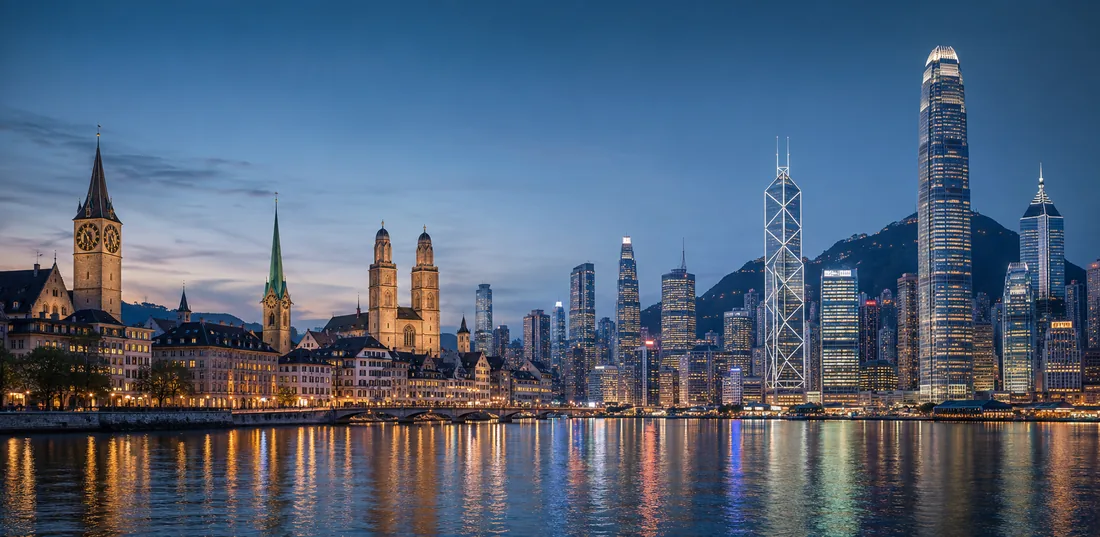
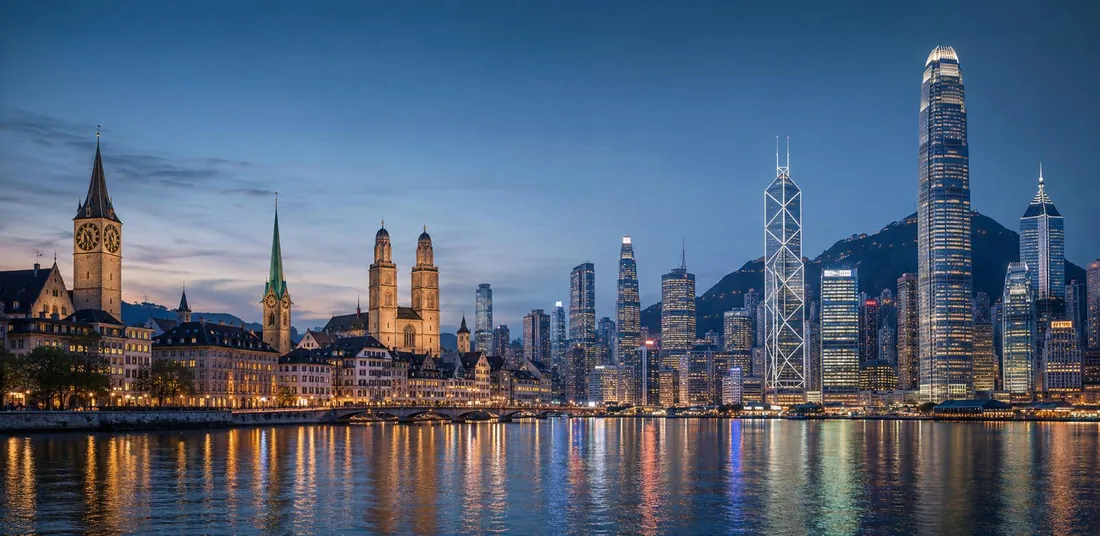
version 2 with larger hero image

diff --git a/de/index.html b/de/index.html
@@ -81,8 +81,8 @@
 <div class="hero">
 <picture>
 <source media="(max-width:700px)" srcset="/img/bfch-hero-mobile.webp 900w" type="image/webp"/>
-<source sizes="100vw" srcset="/img/bfch-hero-800.webp 800w, /img/bfch-hero-1100.webp 1100w" type="image/webp"/>
-<img alt="Zurich's old town and the Hong Kong skyline merged into a single waterfront: St. Peter's clock tower, the Fraumunster spire and the Grossmunster twin towers on the left, the Bank of China Tower and the IFC tower on the right." decoding="async" fetchpriority="high" height="876" src="/img/bfch-hero-1100.jpg" width="1795"/>
+<source sizes="100vw" srcset="/img/bfch-hero-800.webp 800w, /img/bfch-hero-1100.webp 1100w, /img/bfch-hero-1400.webp 1400w, /img/bfch-hero-1600.webp 1600w" type="image/webp"/>
+<img alt="Zurich's old town and the Hong Kong skyline merged into a single waterfront: St. Peter's clock tower, the Fraumunster spire and the Grossmunster twin towers on the left, the Bank of China Tower and the IFC tower on the right." decoding="async" fetchpriority="high" height="780" src="/img/bfch-hero-1400.jpg" width="1600"/>
 </picture>
 <div class="cap">
 <div>

diff --git a/de/kontakt-recht/index.html b/de/kontakt-recht/index.html
@@ -43,8 +43,8 @@
 <div class="hero">
 <picture>
 <source media="(max-width:700px)" srcset="/img/bfch-hero-mobile.webp 900w" type="image/webp"/>
-<source sizes="100vw" srcset="/img/bfch-hero-800.webp 800w, /img/bfch-hero-1100.webp 1100w" type="image/webp"/>
-<img alt="Zurich's old town and the Hong Kong skyline merged into a single waterfront: St. Peter's clock tower, the Fraumunster spire and the Grossmunster twin towers on the left, the Bank of China Tower and the IFC tower on the right." decoding="async" fetchpriority="high" height="876" src="/img/bfch-hero-1100.jpg" width="1795"/>
+<source sizes="100vw" srcset="/img/bfch-hero-800.webp 800w, /img/bfch-hero-1100.webp 1100w, /img/bfch-hero-1400.webp 1400w, /img/bfch-hero-1600.webp 1600w" type="image/webp"/>
+<img alt="Zurich's old town and the Hong Kong skyline merged into a single waterfront: St. Peter's clock tower, the Fraumunster spire and the Grossmunster twin towers on the left, the Bank of China Tower and the IFC tower on the right." decoding="async" fetchpriority="high" height="780" src="/img/bfch-hero-1400.jpg" width="1600"/>
 </picture>
 <div class="cap">
 <div>

diff --git a/de/wie-wir-arbeiten/index.html b/de/wie-wir-arbeiten/index.html
@@ -43,8 +43,8 @@
 <div class="hero">
 <picture>
 <source media="(max-width:700px)" srcset="/img/bfch-hero-mobile.webp 900w" type="image/webp"/>
-<source sizes="100vw" srcset="/img/bfch-hero-800.webp 800w, /img/bfch-hero-1100.webp 1100w" type="image/webp"/>
-<img alt="Zurich's old town and the Hong Kong skyline merged into a single waterfront: St. Peter's clock tower, the Fraumunster spire and the Grossmunster twin towers on the left, the Bank of China Tower and the IFC tower on the right." decoding="async" fetchpriority="high" height="876" src="/img/bfch-hero-1100.jpg" width="1795"/>
+<source sizes="100vw" srcset="/img/bfch-hero-800.webp 800w, /img/bfch-hero-1100.webp 1100w, /img/bfch-hero-1400.webp 1400w, /img/bfch-hero-1600.webp 1600w" type="image/webp"/>
+<img alt="Zurich's old town and the Hong Kong skyline merged into a single waterfront: St. Peter's clock tower, the Fraumunster spire and the Grossmunster twin towers on the left, the Bank of China Tower and the IFC tower on the right." decoding="async" fetchpriority="high" height="780" src="/img/bfch-hero-1400.jpg" width="1600"/>
 </picture>
 <div class="cap">
 <div>

diff --git a/en/contact-legal/index.html b/en/contact-legal/index.html
@@ -43,8 +43,8 @@
 <div class="hero">
 <picture>
 <source media="(max-width:700px)" srcset="/img/bfch-hero-mobile.webp 900w" type="image/webp"/>
-<source sizes="100vw" srcset="/img/bfch-hero-800.webp 800w, /img/bfch-hero-1100.webp 1100w" type="image/webp"/>
-<img alt="Zurich's old town and the Hong Kong skyline merged into a single waterfront: St. Peter's clock tower, the Fraumunster spire and the Grossmunster twin towers on the left, the Bank of China Tower and the IFC tower on the right." decoding="async" fetchpriority="high" height="876" src="/img/bfch-hero-1100.jpg" width="1795"/>
+<source sizes="100vw" srcset="/img/bfch-hero-800.webp 800w, /img/bfch-hero-1100.webp 1100w, /img/bfch-hero-1400.webp 1400w, /img/bfch-hero-1600.webp 1600w" type="image/webp"/>
+<img alt="Zurich's old town and the Hong Kong skyline merged into a single waterfront: St. Peter's clock tower, the Fraumunster spire and the Grossmunster twin towers on the left, the Bank of China Tower and the IFC tower on the right." decoding="async" fetchpriority="high" height="780" src="/img/bfch-hero-1400.jpg" width="1600"/>
 </picture>
 <div class="cap">
 <div>

diff --git a/en/how-we-work/index.html b/en/how-we-work/index.html
@@ -43,8 +43,8 @@
 <div class="hero">
 <picture>
 <source media="(max-width:700px)" srcset="/img/bfch-hero-mobile.webp 900w" type="image/webp"/>
-<source sizes="100vw" srcset="/img/bfch-hero-800.webp 800w, /img/bfch-hero-1100.webp 1100w" type="image/webp"/>
-<img alt="Zurich's old town and the Hong Kong skyline merged into a single waterfront: St. Peter's clock tower, the Fraumunster spire and the Grossmunster twin towers on the left, the Bank of China Tower and the IFC tower on the right." decoding="async" fetchpriority="high" height="876" src="/img/bfch-hero-1100.jpg" width="1795"/>
+<source sizes="100vw" srcset="/img/bfch-hero-800.webp 800w, /img/bfch-hero-1100.webp 1100w, /img/bfch-hero-1400.webp 1400w, /img/bfch-hero-1600.webp 1600w" type="image/webp"/>
+<img alt="Zurich's old town and the Hong Kong skyline merged into a single waterfront: St. Peter's clock tower, the Fraumunster spire and the Grossmunster twin towers on the left, the Bank of China Tower and the IFC tower on the right." decoding="async" fetchpriority="high" height="780" src="/img/bfch-hero-1400.jpg" width="1600"/>
 </picture>
 <div class="cap">
 <div>

diff --git a/en/index.html b/en/index.html
@@ -81,8 +81,8 @@
 <div class="hero">
 <picture>
 <source media="(max-width:700px)" srcset="/img/bfch-hero-mobile.webp 900w" type="image/webp"/>
-<source sizes="100vw" srcset="/img/bfch-hero-800.webp 800w, /img/bfch-hero-1100.webp 1100w" type="image/webp"/>
-<img alt="Zurich's old town and the Hong Kong skyline merged into a single waterfront: St. Peter's clock tower, the Fraumunster spire and the Grossmunster twin towers on the left, the Bank of China Tower and the IFC tower on the right." decoding="async" fetchpriority="high" height="876" src="/img/bfch-hero-1100.jpg" width="1795"/>
+<source sizes="100vw" srcset="/img/bfch-hero-800.webp 800w, /img/bfch-hero-1100.webp 1100w, /img/bfch-hero-1400.webp 1400w, /img/bfch-hero-1600.webp 1600w" type="image/webp"/>
+<img alt="Zurich's old town and the Hong Kong skyline merged into a single waterfront: St. Peter's clock tower, the Fraumunster spire and the Grossmunster twin towers on the left, the Bank of China Tower and the IFC tower on the right." decoding="async" fetchpriority="high" height="780" src="/img/bfch-hero-1400.jpg" width="1600"/>
 </picture>
 <div class="cap">
 <div>
